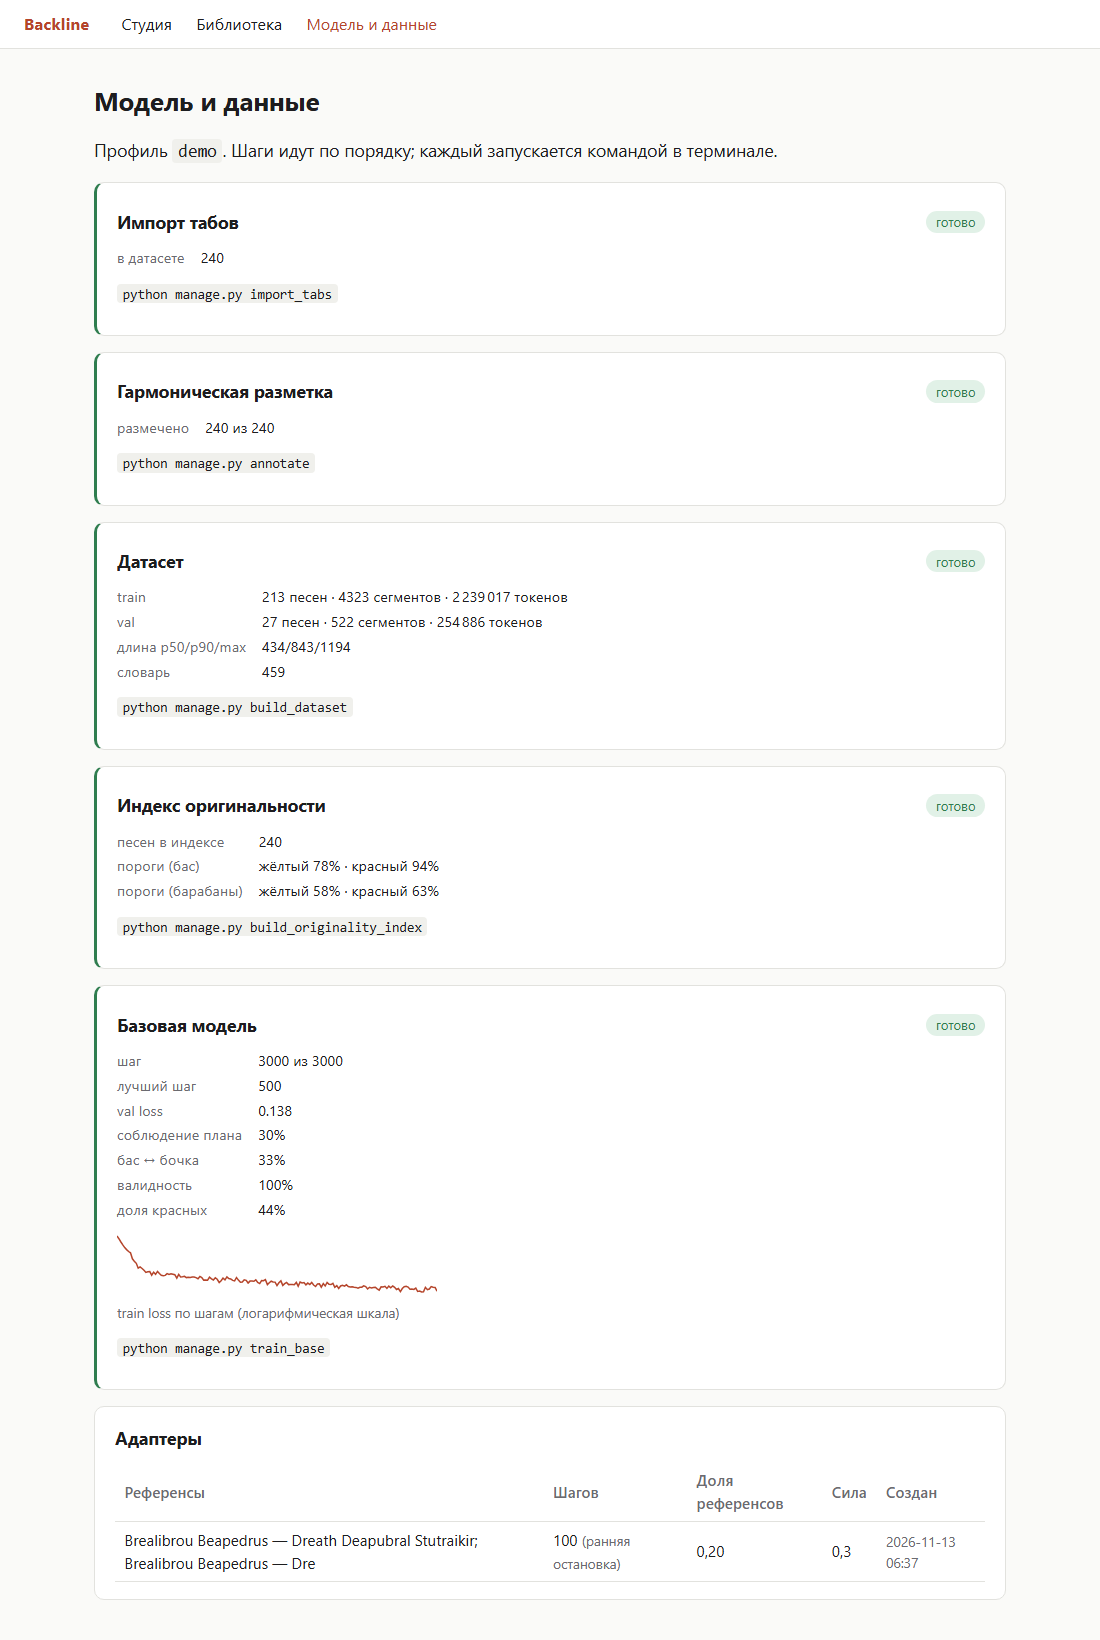
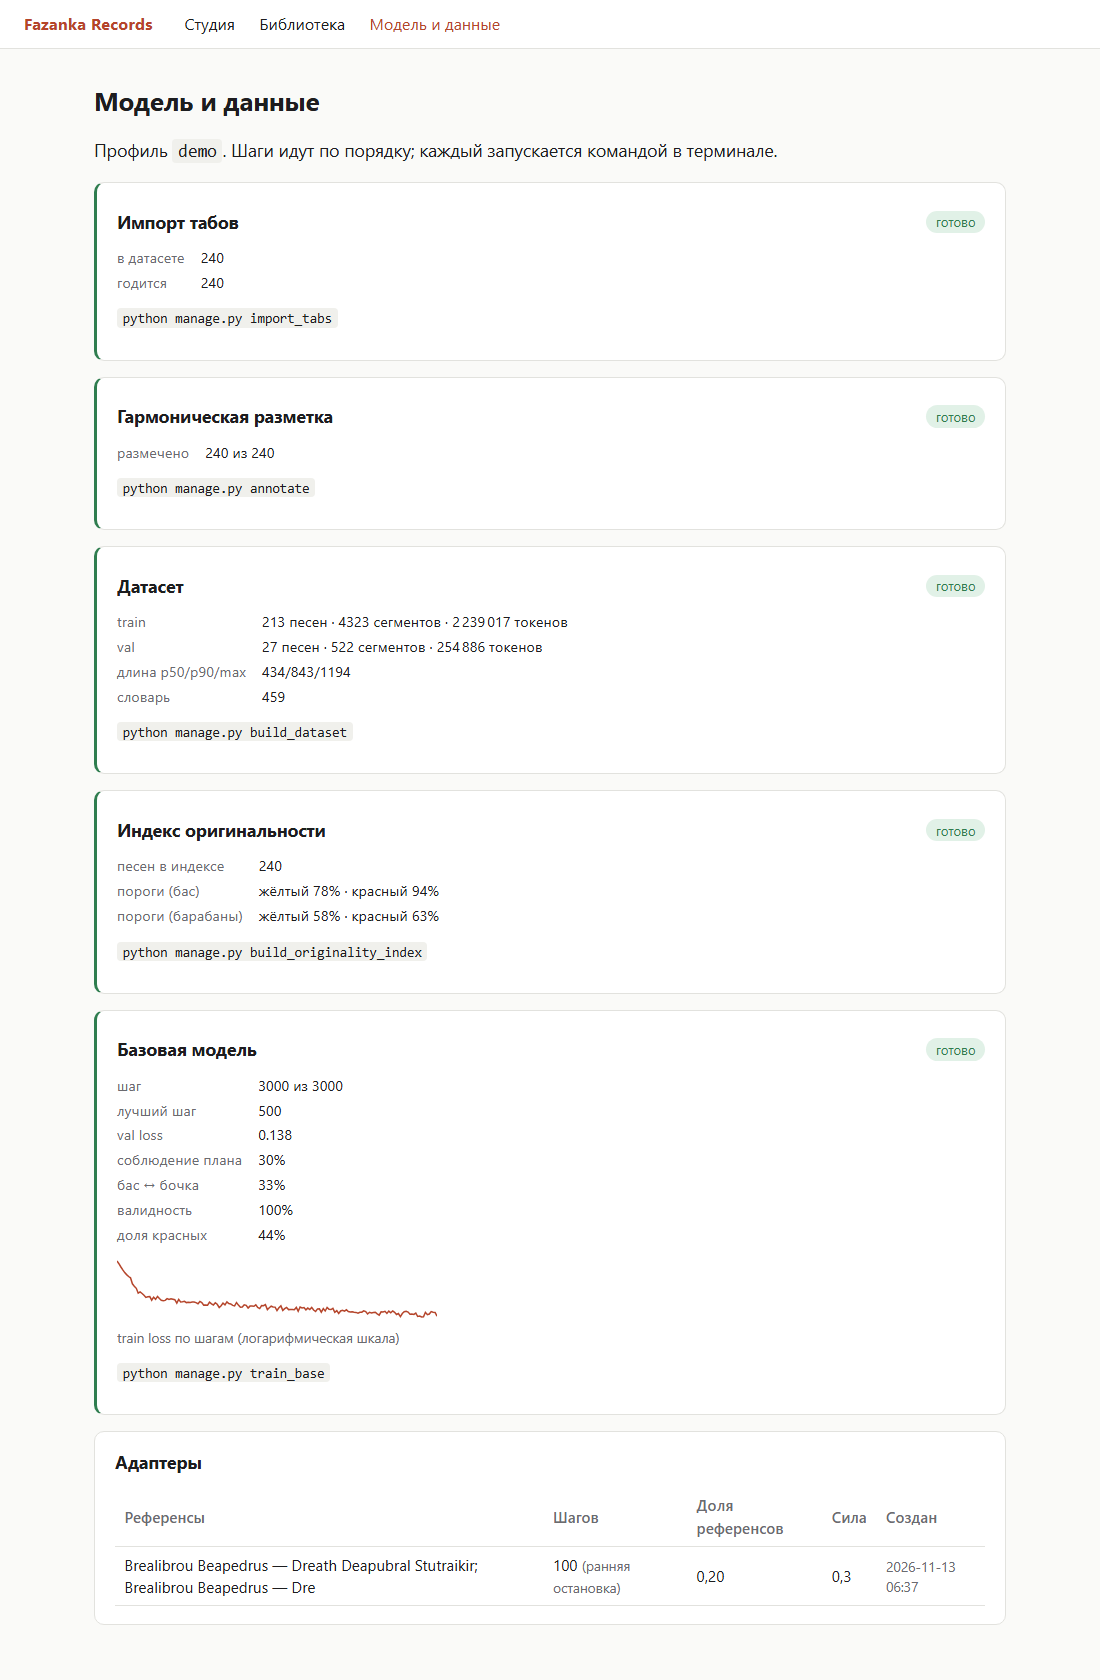
feat(web): name the studio Fazanka Records by default
The header and page titles show Fazanka Records unless BACKLINE_SITE_NAME says otherwise. The README screenshots are retaken with the new header.

diff --git a/tests/web/test_pages.py b/tests/web/test_pages.py
@@ -23,14 +23,14 @@ def test_library_page(client: Client) -> None:
 
 @pytest.mark.django_db
 def test_site_name_is_configurable(client: Client, settings: Settings) -> None:
-    settings.SITE_NAME = "Fazanka Records"
+    settings.SITE_NAME = "My Studio"
     page = client.get("/library/").content.decode()
-    assert '<a class="brand" href="/">Fazanka Records</a>' in page
-    assert "<title>Библиотека · Fazanka Records</title>" in page
+    assert '<a class="brand" href="/">My Studio</a>' in page
+    assert "<title>Библиотека · My Studio</title>" in page
 
 
-def test_site_name_defaults_to_backline(monkeypatch: pytest.MonkeyPatch) -> None:
+def test_site_name_defaults_to_the_label(monkeypatch: pytest.MonkeyPatch) -> None:
     from web.settings import UiSettings
 
     monkeypatch.delenv("BACKLINE_SITE_NAME", raising=False)
-    assert UiSettings(_env_file=None).site_name == "Backline"
+    assert UiSettings(_env_file=None).site_name == "Fazanka Records"

diff --git a/web/settings.py b/web/settings.py
@@ -25,7 +25,7 @@ class UiSettings(BaseSettings):
         env_prefix="BACKLINE_", env_file=".env", env_file_encoding="utf-8", extra="ignore"
     )
 
-    site_name: str = "Backline"
+    site_name: str = "Fazanka Records"
     """Shown in the header and the page titles."""
 
 

diff --git a/README.md b/README.md
@@ -313,7 +313,8 @@ uv run python manage.py run_huey      # фоновые задачи, во вто
 4. **Варианты.** Пиано-ролл, где подсвечены такты, совпавшие с корпусом; вердикт и
    источники сходства; плеер в браузере; MIDI баса, барабанов и сведения.
 
-Название в шапке студии задаётся переменной `BACKLINE_SITE_NAME` (в `.env`).
+В шапке студии стоит Fazanka Records; другое название задаётся переменной
+`BACKLINE_SITE_NAME` (в `.env`).
 
 Страница «Модель и данные» показывает, что уже собрано: импорт, разметку, датасет,
 индекс с порогами, метрики и кривую обучения, адаптеры. Там же — команда для каждого
